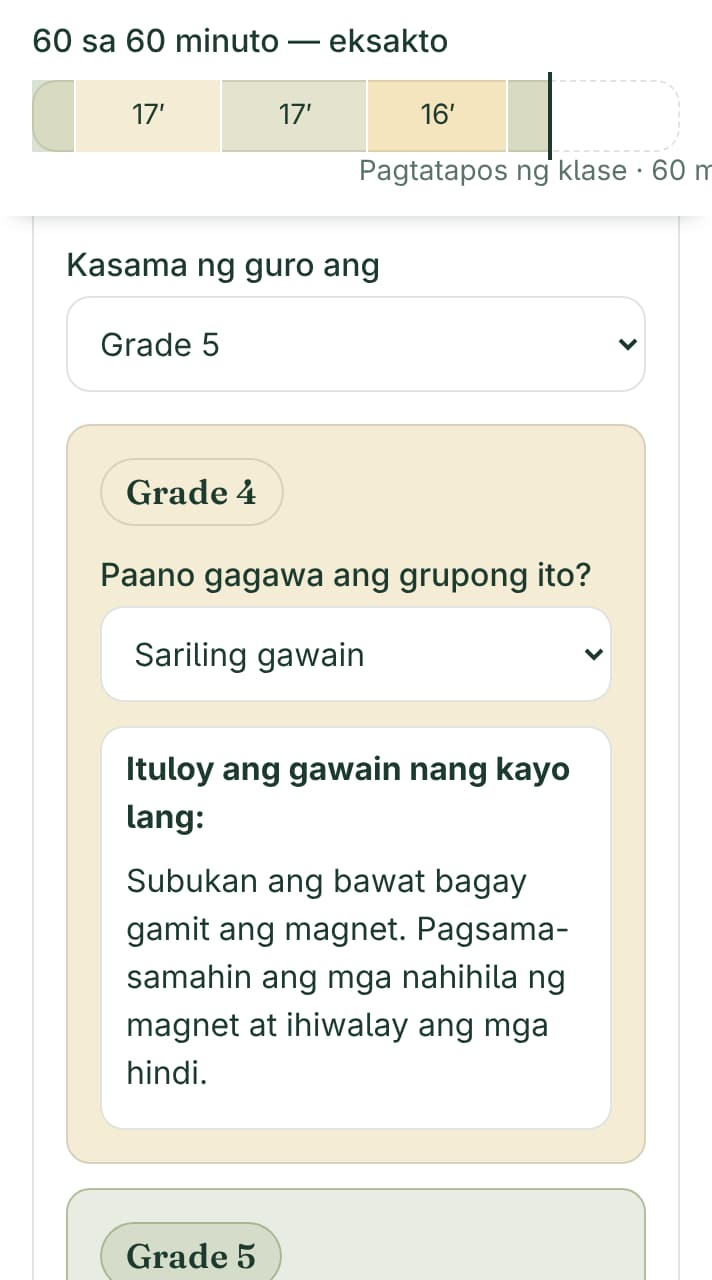
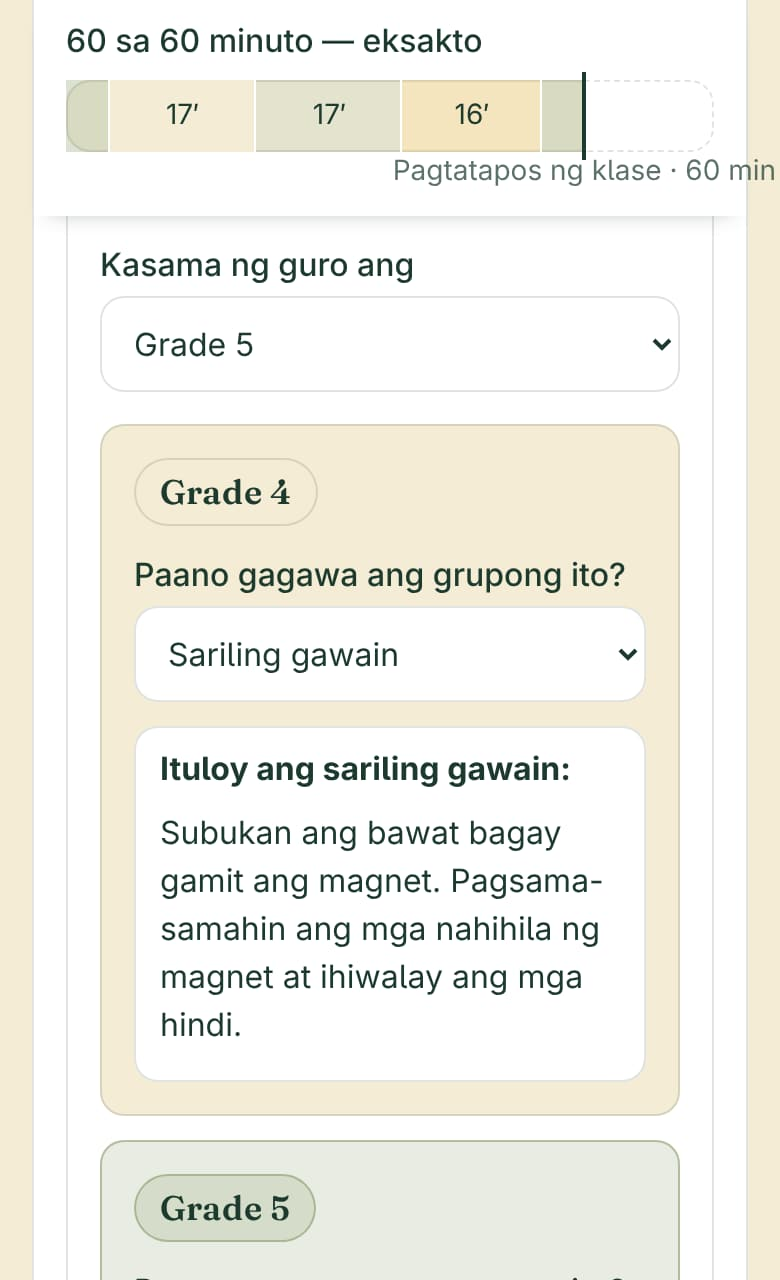
Homepage pictures: the phone planner shot shows the whole screen; Filipino planner re-shot with the new app label
- The Filipino planner pictures now read "Ituloy ang sariling gawain:", the app's own label since 637d135d9.
- On a phone the planner picture is the full width of the screen, as the phone shows it: in Filipino the timeline's
  end label reaches past the card's edge, and a picture cut at the card cut the label.
- home-walk.mjs: touch sizes are required of the header and the page; what is small in the shared footer is noted
  apart. Layout shift is compared with the reference deployment (the hero's language swap moves the same on both).

diff --git a/packages/tala-web/src/features/landing/shots.ts b/packages/tala-web/src/features/landing/shots.ts
@@ -4,7 +4,7 @@
  * manifest, and that every file exists in both languages, both layouts and both formats.
  */
 export const SHOTS = {
-  planner: { wide: [1320, 1431], phone: [712, 1280] },
+  planner: { wide: [1320, 1431], phone: [780, 1280] },
   slides: { wide: [1860, 1198], phone: [780, 1400] },
 } as const;
 export type ShotName = keyof typeof SHOTS;
